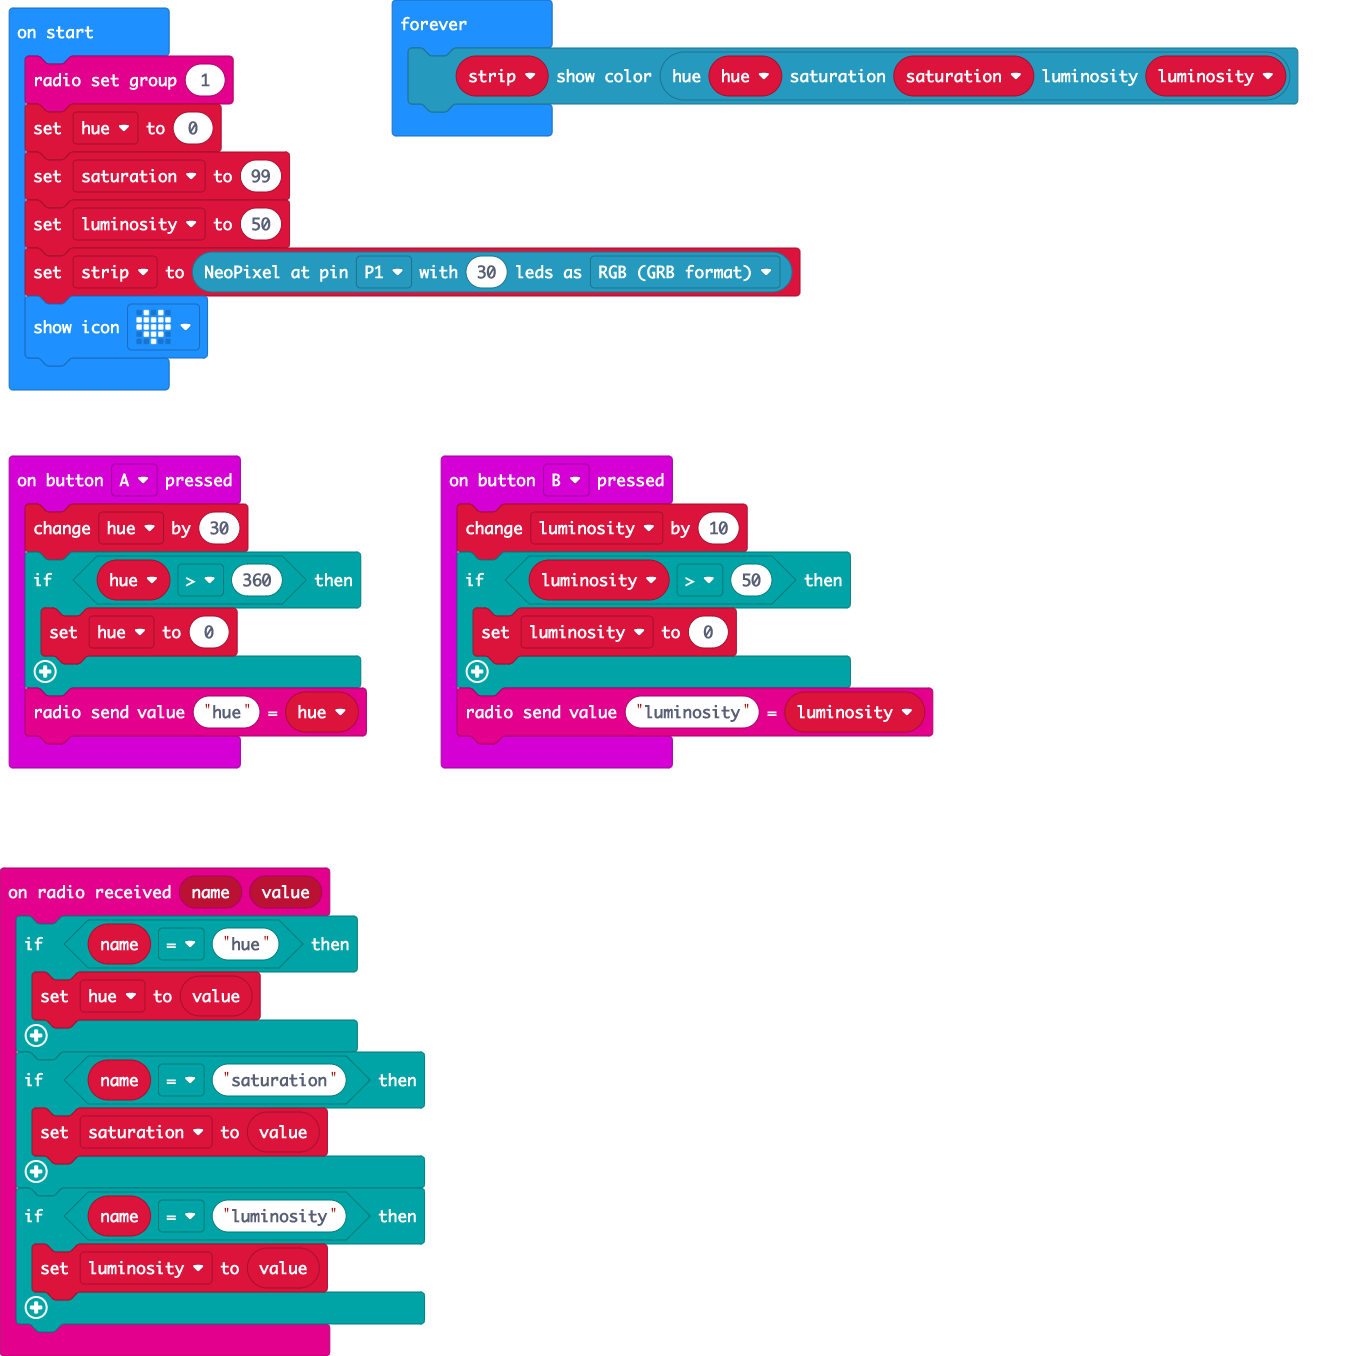
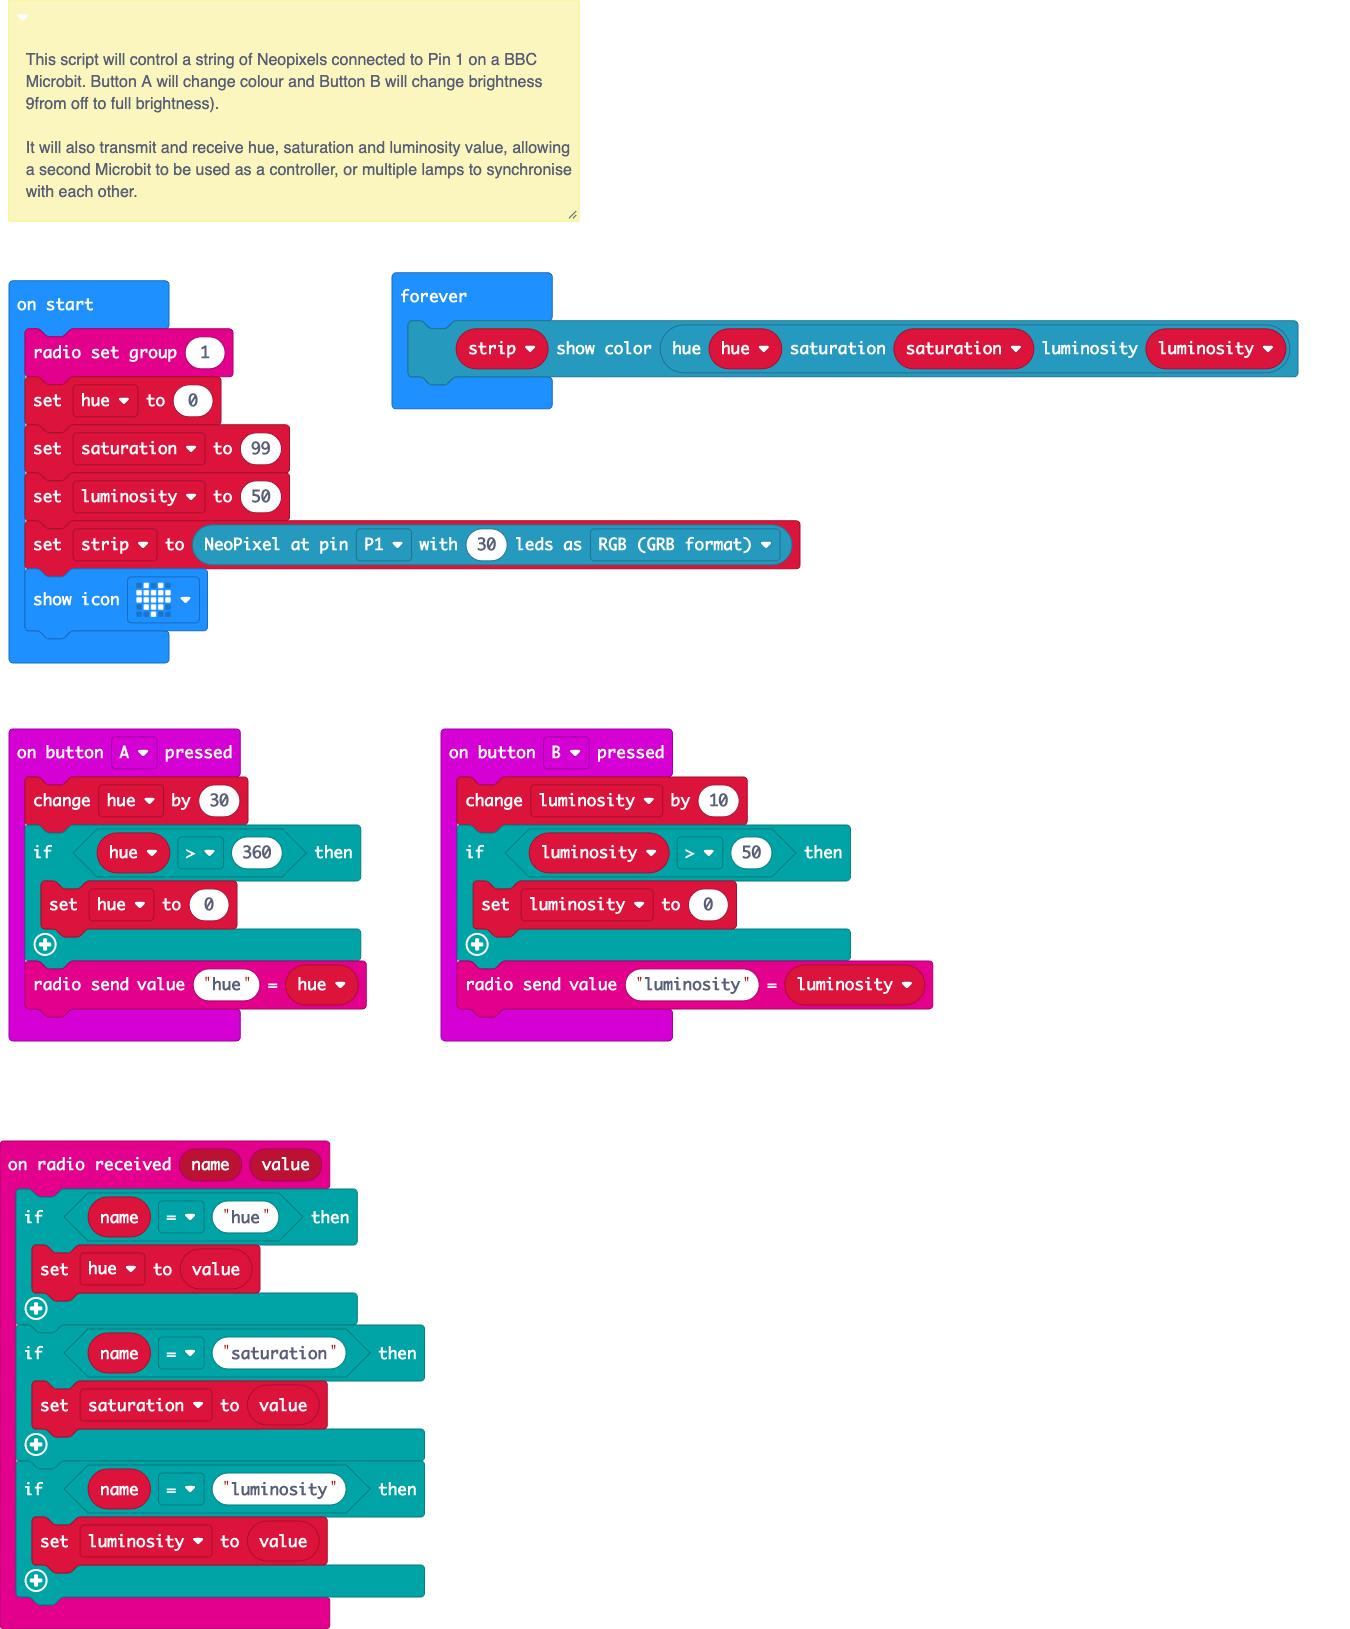
Update main.blocks, main.ts

diff --git a/main.ts b/main.ts
@@ -1,3 +1,8 @@
+/**
+ * This script will control a string of Neopixels connected to Pin 1 on a BBC Microbit. Button A will change colour and Button B will change brightness 9from off to full brightness).
+ * 
+ * It will also transmit and receive hue, saturation and luminosity value, allowing a second Microbit to be used as a controller, or multiple lamps to synchronise with each other.
+ */
 input.onButtonPressed(Button.A, function () {
     hue += 30
     if (hue > 360) {
